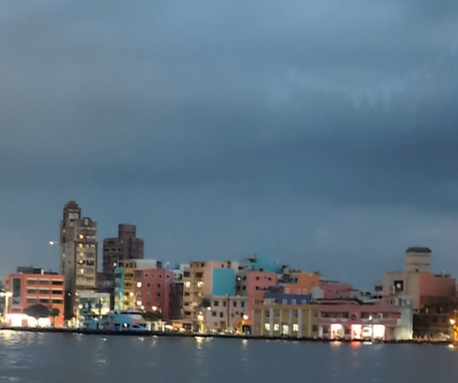
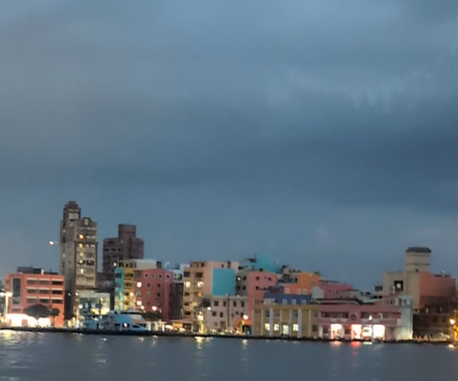
update    03192215

diff --git a/築港.html b/築港.html
@@ -326,21 +326,21 @@
               </a>
             </div>
             <p class="mb-1">
-              <strong><a href="#!" class="text-reset">D&G 3 L'impératice</a></strong>
+              <strong><a href="#!" class="text-reset">Ocean Kitchen</a></strong>
             </p>
-            <p class="mb-0">€99,00 / 35 ml</p>
+            <p class="mb-0">新濱町</p>
           </div>
           <div class="col-md-6 col-lg-3 mb-4 mb-lg-0">
             <div class="bg-image hover-zoom shadow-4 rounded-5 mb-3">
-              <img src="./img/1000002033.jpg" alt="Parfum 1" class="w-100">
+              <img src="./img/1000003361.jpg" alt="Parfum 1" class="w-100">
               <a href="#!">
                 <div class="mask"></div>
               </a>
             </div>
             <p class="mb-1">
-              <strong><a href="#!" class="text-reset">Nécessaire The Deodorant</a></strong>
+              <strong><a href="#!" class="text-reset">Painted Ferry</a></strong>
             </p>
-            <p class="mb-0">€39,00 / 50 ml</p>
+            <p class="mb-0">新濱町</p>
           </div>
           <div class="col-md-6 col-lg-3 mb-4 mb-md-0">
             <div class="bg-image hover-zoom shadow-4 rounded-5 mb-3">
@@ -350,9 +350,9 @@
               </a>
             </div>
             <p class="mb-1">
-              <strong><a href="#!" class="text-reset">JOIN Wilde Perfume Stick</a></strong>
+              <strong><a href="#!" class="text-reset">fishing boat</a></strong>
             </p>
-            <p class="mb-0">€59,00 / 30 ml</p>
+            <p class="mb-0">新濱町</p>
           </div>
           <div class="col-md-6 col-lg-3">
             <div class="bg-image hover-zoom shadow-4 rounded-5 mb-3">
@@ -362,9 +362,9 @@
               </a>
             </div>
             <p class="mb-1">
-              <strong><a href="#!" class="text-reset">CHANEL N°5</a></strong>
+              <strong><a href="#!" class="text-reset">Colorful houses</a></strong>
             </p>
-            <p class="mb-0">€109,00 / 35 ml</p>
+            <p class="mb-0">新濱町</p>
           </div>
         </div>
       </section>